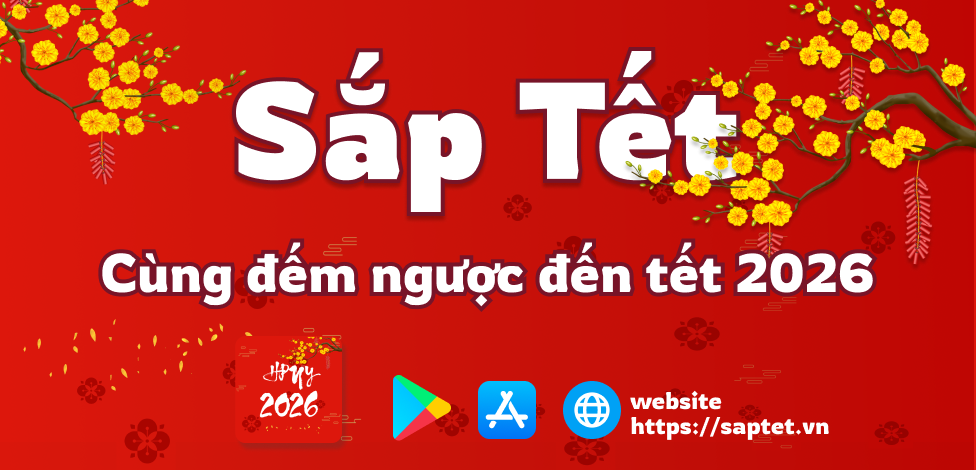
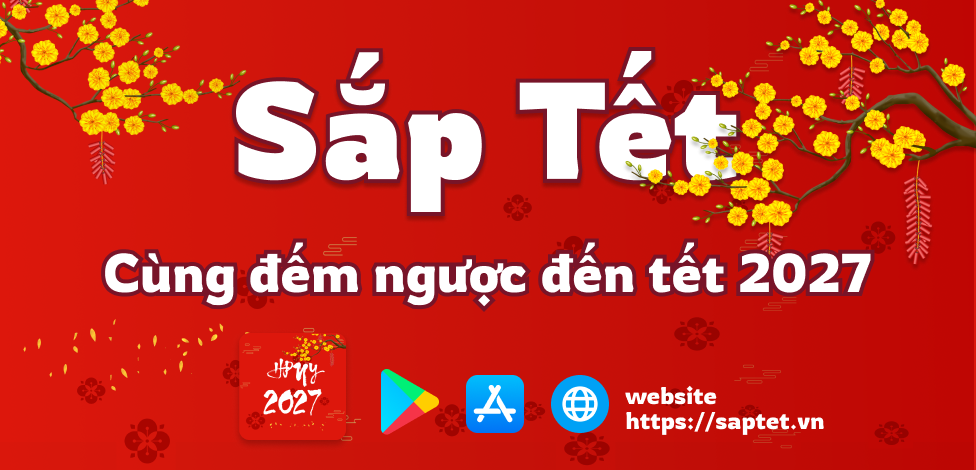
chore: update before deployment

Changed region(s): [[0.2152, 0.7149, 0.8607, 0.9532], [0.0922, 0.5064, 0.9221, 0.6553]]

diff --git a/lich-nghi-tet-2026.html b/lich-nghi-tet-2026.html
@@ -3,27 +3,27 @@
 <head>
     <meta charset="UTF-8">
     <meta name="viewport" content="width=device-width, initial-scale=1.0">
-    <title>Lịch Nghỉ Tết 2027: 9 Ngày Nghỉ Từ 14/2 - 11/2/2027 | Sắp Tết</title>
-    <meta name="description" content="📅 Lịch nghỉ Tết 2027 chính thức: Người lao động được nghỉ 9 ngày từ 3/2/2027 (27/12 âm lịch) đến 11/2/2027 (mùng 6 Tết). Xem chi tiết lịch nghỉ Tết Nguyên đán 2027, ngày nghỉ lễ, và hướng dẫn chuẩn bị Tết.">
+    <title>Lịch Nghỉ Tết 2027: Đang Chờ Thông Báo Chính Thức | Sắp Tết</title>
+    <meta name="description" content="📅 Lịch nghỉ Tết 2027 hiện chưa có thông báo chính thức. Theo dõi trang để cập nhật ngay khi cơ quan có thẩm quyền công bố lịch nghỉ Tết Nguyên đán 2027.">
     <meta name="keywords" content="lịch nghỉ tết 2027, nghỉ tết 2027, lịch nghỉ tết nguyên đán 2027, tết 2027 nghỉ mấy ngày, lịch nghỉ lễ 2027, tết đinh mùi 2027, nghỉ tết dương lịch 2027, lịch tết 2027, ngày nghỉ tết 2027, tết 2027 bao nhiêu ngày nghỉ">
     
     <!-- Open Graph / Facebook -->
     <meta property="og:type" content="article">
     <meta property="og:url" content="https://saptet.vn/lich-nghi-tet-2026.html">
-    <meta property="og:title" content="Lịch Nghỉ Tết 2027: 9 Ngày Nghỉ Từ 14/2 - 11/2/2027 | Sắp Tết">
-    <meta property="og:description" content="📅 Lịch nghỉ Tết 2027 chính thức: Người lao động được nghỉ 9 ngày từ 3/2/2027 đến 11/2/2027. Xem chi tiết lịch nghỉ Tết Nguyên đán 2027.">
+    <meta property="og:title" content="Lịch Nghỉ Tết 2027: Đang Chờ Thông Báo Chính Thức | Sắp Tết">
+    <meta property="og:description" content="📅 Lịch nghỉ Tết 2027 hiện chưa có thông báo chính thức. Trang sẽ cập nhật ngay khi có công bố mới nhất từ cơ quan có thẩm quyền.">
     <meta property="og:image" content="https://saptet.vn/assets/images/img_sharing.png">
     <meta property="og:image:width" content="1200">
     <meta property="og:image:height" content="630">
-    <meta property="og:image:alt" content="Lịch Nghỉ Tết 2027 - 9 Ngày Nghỉ Từ 14/2 - 11/2/2027">
+    <meta property="og:image:alt" content="Lịch Nghỉ Tết 2027 - Đang Chờ Thông Báo Chính Thức">
     <meta property="og:site_name" content="Sắp Tết - Đếm Ngược Tết">
     <meta property="og:locale" content="vi_VN">
     
     <!-- Twitter -->
     <meta property="twitter:card" content="summary_large_image">
     <meta property="twitter:url" content="https://saptet.vn/lich-nghi-tet-2026.html">
-    <meta property="twitter:title" content="Lịch Nghỉ Tết 2027: 9 Ngày Nghỉ Từ 14/2 - 11/2/2027">
-    <meta property="twitter:description" content="📅 Lịch nghỉ Tết 2027 chính thức: Người lao động được nghỉ 9 ngày từ 3/2/2027 đến 11/2/2027.">
+    <meta property="twitter:title" content="Lịch Nghỉ Tết 2027: Đang Chờ Thông Báo Chính Thức">
+    <meta property="twitter:description" content="📅 Lịch nghỉ Tết 2027 hiện chưa có thông báo chính thức. Theo dõi để cập nhật lịch nghỉ mới nhất.">
     <meta property="twitter:image" content="https://saptet.vn/assets/images/img_sharing.png">
     
     <!-- Canonical URL -->
@@ -47,8 +47,8 @@
     {
         "@context": "https://schema.org",
         "@type": "Article",
-        "headline": "Lịch Nghỉ Tết 2027: 9 Ngày Nghỉ Từ 14/2 - 11/2/2027",
-        "description": "Lịch nghỉ Tết 2027 chính thức: Người lao động được nghỉ 9 ngày từ 3/2/2027 (27/12 âm lịch) đến 11/2/2027 (mùng 6 Tết).",
+        "headline": "Lịch Nghỉ Tết 2027: Đang Chờ Thông Báo Chính Thức",
+        "description": "Lịch nghỉ Tết 2027 hiện chưa có thông báo chính thức. Nội dung sẽ được cập nhật ngay khi có thông tin từ cơ quan có thẩm quyền.",
         "image": "https://saptet.vn/assets/images/img_sharing.png",
         "author": {
             "@type": "Organization",
@@ -433,7 +433,7 @@
         <section class="article-hero">
             <div class="container">
                 <h1>📅 Lịch Nghỉ Tết 2027</h1>
-                <p class="subtitle">9 ngày nghỉ Tết Nguyên đán từ 14/2 - 11/2/2027</p>
+                <p class="subtitle">Hiện chưa có lịch nghỉ Tết Nguyên đán 2027 chính thức</p>
             </div>
         </section>
 
@@ -448,19 +448,19 @@
                     </div>
                     
                     <div class="calendar-box">
-                        <h3>🗓 Lịch Nghỉ Tết 2027 Chính Thức</h3>
-                        <div class="date-range">03/02/2027 - 11/02/2027</div>
-                        <div class="lunar-date">Từ 27/12 âm lịch đến mùng 6 Tết</div>
-                        <p><strong>Thời gian nghỉ:</strong> 9 ngày liên tiếp</p>
-                        <p><strong>Bắt đầu:</strong> Thứ Bảy, 03/02/2027</p>
-                        <p><strong>Kết thúc:</strong> Chủ nhật, 11/02/2027</p>
+                        <h3>🗓 Trạng Thái Lịch Nghỉ Tết 2027</h3>
+                        <div class="date-range">Chưa có thông báo chính thức</div>
+                        <div class="lunar-date">Sẽ cập nhật ngay khi có văn bản công bố</div>
+                        <p><strong>Thời gian nghỉ:</strong> Đang chờ xác nhận</p>
+                        <p><strong>Nguồn cập nhật:</strong> Cơ quan có thẩm quyền của Nhà nước</p>
+                        <p><strong>Lưu ý:</strong> Không nên sử dụng các mốc ngày chưa được công bố để lên kế hoạch cố định</p>
                     </div>
                     
                     <div class="table-of-contents">
                         <h3>📋 Mục lục bài viết</h3>
                         <ul>
-                            <li><a href="#thong-tin-chinh-thuc">1. Thông tin chính thức về lịch nghỉ Tết 2027</a></li>
-                            <li><a href="#chi-tiet-lich-nghi">2. Chi tiết lịch nghỉ từng ngày</a></li>
+                            <li><a href="#thong-tin-chinh-thuc">1. Trạng thái cập nhật lịch nghỉ Tết 2027</a></li>
+                            <li><a href="#chi-tiet-lich-nghi">2. Cách theo dõi thông tin mới nhất</a></li>
                             <li><a href="#quy-dinh-nghi-tet">3. Quy định nghỉ Tết cho người lao động</a></li>
                             <li><a href="#huong-dan-chuan-bi">4. Hướng dẫn chuẩn bị cho kỳ nghỉ Tết</a></li>
                             <li><a href="#cac-ngay-le-khac">5. Các ngày lễ khác trong năm 2027</a></li>
@@ -468,89 +468,39 @@
                     </div>
                     
                     <div class="article-content">
-                        <h2 id="thong-tin-chinh-thuc">1. Thông tin chính thức về lịch nghỉ Tết 2027</h2>
+                        <h2 id="thong-tin-chinh-thuc">1. Trạng thái cập nhật lịch nghỉ Tết 2027</h2>
                         
-                        <p>Theo quyết định của Chính phủ, <strong>lịch nghỉ Tết 2027</strong> sẽ kéo dài <strong>9 ngày liên tiếp</strong> từ ngày <strong>03/02/2027</strong> (thứ Bảy) đến hết ngày <strong>11/02/2027</strong> (Chủ nhật). Đây là kỳ nghỉ Tết Nguyên đán dài nhất trong những năm gần đây, tạo điều kiện thuận lợi cho người lao động có thời gian nghỉ ngơi và sum họp gia đình.</p>
+                        <p>Hiện tại, <strong>lịch nghỉ Tết 2027</strong> vẫn <strong>chưa có thông báo chính thức</strong>. Các mốc ngày nghỉ cụ thể cần chờ văn bản công bố từ cơ quan có thẩm quyền. Trang này sẽ cập nhật ngay khi có thông tin xác thực để bạn tiện theo dõi.</p>
                         
                         <div class="highlight-box">
-                            <h4>🎯 Điểm nổi bật của lịch nghỉ Tết 2027:</h4>
+                            <h4>🎯 Thông tin cần lưu ý ở thời điểm hiện tại:</h4>
                             <ul>
-                                <li><strong>Thời gian nghỉ:</strong> 9 ngày liên tiếp (từ 14/2 - 11/2/2027)</li>
-                                <li><strong>Năm âm lịch:</strong> Năm Đinh Mùi (năm con Dê)</li>
-                                <li><strong>Ngày Tết chính:</strong> 06/02/2027 (mùng 1 Tết)</li>
-                                <li><strong>Áp dụng cho:</strong> Tất cả cán bộ, công chức, viên chức và người lao động</li>
+                                <li><strong>Trạng thái:</strong> Chưa có lịch nghỉ chính thức cho Tết 2027</li>
+                                <li><strong>Khuyến nghị:</strong> Ưu tiên theo dõi nguồn thông tin chính thống</li>
+                                <li><strong>Cập nhật:</strong> Nội dung sẽ được chỉnh sửa ngay khi có thông báo mới</li>
+                                <li><strong>Lưu ý:</strong> Không nên dựa vào các bài đăng suy đoán ngày nghỉ</li>
                             </ul>
                         </div>
                         
-                        <p>Kỳ nghỉ Tết 2027 được thiết kế để tạo điều kiện tối ưu cho người dân Việt Nam có thể tận hưởng trọn vẹn không khí Tết cổ truyền, thực hiện các phong tục truyền thống và dành thời gian cho gia đình.</p>
+                        <p>Trong thời gian chờ công bố chính thức, bạn vẫn có thể chuẩn bị kế hoạch công việc, đi lại và tài chính theo phương án linh hoạt để chủ động hơn khi lịch nghỉ được ban hành.</p>
                         
-                        <h2 id="chi-tiet-lich-nghi">2. Chi tiết lịch nghỉ từng ngày</h2>
+                        <h2 id="chi-tiet-lich-nghi">2. Cách theo dõi thông tin mới nhất</h2>
                         
-                        <p>Dưới đây là bảng chi tiết <strong>lịch nghỉ Tết 2027</strong> từng ngày:</p>
+                        <p>Hiện chưa thể công bố bảng chi tiết theo từng ngày cho <strong>lịch nghỉ Tết 2027</strong>. Để tránh nhầm lẫn, bạn có thể theo dõi theo các cách sau:</p>
                         
                         <div class="holiday-schedule">
-                            <h4>📅 Lịch nghỉ Tết 2027 chi tiết</h4>
-                            <div class="schedule-grid">
-                                <div class="schedule-item">
-                                    <div class="schedule-date">14/02</div>
-                                    <div class="schedule-day">T7</div>
-                                    <div class="schedule-lunar">27/12</div>
-                                    <div class="schedule-note">Bắt đầu nghỉ Tết</div>
-                                </div>
-                                <div class="schedule-item">
-                                    <div class="schedule-date">15/02</div>
-                                    <div class="schedule-day">CN</div>
-                                    <div class="schedule-lunar">28/12</div>
-                                    <div class="schedule-note">Tất niên</div>
-                                </div>
-                                <div class="schedule-item">
-                                    <div class="schedule-date">16/02</div>
-                                    <div class="schedule-day">T2</div>
-                                    <div class="schedule-lunar">29/12</div>
-                                    <div class="schedule-note">Giao thừa</div>
-                                </div>
-                                <div class="schedule-item tet-main">
-                                    <div class="schedule-date">17/02</div>
-                                    <div class="schedule-day">T3</div>
-                                    <div class="schedule-lunar">Mùng 1</div>
-                                    <div class="schedule-note">🎊 Tết chính</div>
-                                </div>
-                                <div class="schedule-item">
-                                    <div class="schedule-date">18/02</div>
-                                    <div class="schedule-day">T4</div>
-                                    <div class="schedule-lunar">Mùng 2</div>
-                                    <div class="schedule-note">Thăm họ hàng</div>
-                                </div>
-                                <div class="schedule-item">
-                                    <div class="schedule-date">19/02</div>
-                                    <div class="schedule-day">T5</div>
-                                    <div class="schedule-lunar">Mùng 3</div>
-                                    <div class="schedule-note">Thăm thầy cô</div>
-                                </div>
-                                <div class="schedule-item">
-                                    <div class="schedule-date">20/02</div>
-                                    <div class="schedule-day">T6</div>
-                                    <div class="schedule-lunar">Mùng 4</div>
-                                    <div class="schedule-note">Du xuân</div>
-                                </div>
-                                <div class="schedule-item">
-                                    <div class="schedule-date">21/02</div>
-                                    <div class="schedule-day">T7</div>
-                                    <div class="schedule-lunar">Mùng 5</div>
-                                    <div class="schedule-note">Nghỉ ngơi</div>
-                                </div>
-                                <div class="schedule-item">
-                                    <div class="schedule-date">22/02</div>
-                                    <div class="schedule-day">CN</div>
-                                    <div class="schedule-lunar">Mùng 6</div>
-                                    <div class="schedule-note">Kết thúc nghỉ Tết</div>
-                                </div>
-                            </div>
+                            <h4>📅 Nguồn theo dõi lịch nghỉ Tết 2027</h4>
+                            <ul>
+                                <li>Thông báo từ cơ quan Nhà nước có thẩm quyền</li>
+                                <li>Thông tin nội bộ từ cơ quan, đơn vị hoặc doanh nghiệp nơi bạn làm việc</li>
+                                <li>Các kênh báo chí chính thống cập nhật văn bản mới</li>
+                                <li>Trang này sẽ cập nhật ngay sau khi có thông tin xác thực</li>
+                            </ul>
                         </div>
                         
                         <h2 id="quy-dinh-nghi-tet">3. Quy định nghỉ Tết cho người lao động</h2>
                         
-                        <p>Theo Bộ luật Lao động Việt Nam, <strong>lịch nghỉ Tết 2027</strong> được áp dụng cho tất cả các đối tượng sau:</p>
+                        <p>Theo Bộ luật Lao động Việt Nam, khi có thông báo chính thức, <strong>lịch nghỉ Tết 2027</strong> sẽ được áp dụng theo quy định cho các nhóm đối tượng sau:</p>
                         
                         <ul>
                             <li><strong>Cán bộ, công chức, viên chức:</strong> Nghỉ theo quy định của Nhà nước</li>
@@ -560,7 +510,7 @@
                         </ul>
                         
                         <div class="quote-box">
-                            "Tết là dịp để mọi người nghỉ ngơi, sum họp gia đình và tận hưởng không khí ấm áp của ngày lễ cổ truyền. Việc có 9 ngày nghỉ liên tiếp sẽ giúp người lao động có thời gian chuẩn bị và đón Tết một cách trọn vẹn nhất."
+                            "Tết là dịp để mọi người nghỉ ngơi và sum họp gia đình. Việc theo dõi đúng thông tin chính thức sẽ giúp mỗi người chủ động kế hoạch phù hợp và tránh nhầm lẫn."
                         </div>
                         
                         <h3>Quyền lợi của người lao động trong kỳ nghỉ Tết:</h3>
@@ -573,7 +523,7 @@
                         
                         <h2 id="huong-dan-chuan-bi">4. Hướng dẫn chuẩn bị cho kỳ nghỉ Tết</h2>
                         
-                        <p>Với <strong>9 ngày nghỉ Tết 2027</strong>, bạn có thể lên kế hoạch chuẩn bị một cách kỹ lưỡng. Dưới đây là một số gợi ý để tận dụng tối đa kỳ nghỉ này:</p>
+                        <p>Dù <strong>số ngày nghỉ Tết 2027</strong> chưa được công bố, bạn vẫn có thể chuẩn bị sớm theo hướng linh hoạt. Dưới đây là một số gợi ý hữu ích:</p>
                         
                         <div class="tips-grid">
                             <div class="tip-card">
@@ -619,26 +569,26 @@
                         
                         <h2 id="cac-ngay-le-khac">5. Các ngày lễ khác trong năm 2027</h2>
                         
-                        <p>Ngoài <strong>lịch nghỉ Tết 2027</strong>, trong năm 2027 còn có các ngày lễ khác mà người lao động được nghỉ:</p>
+                        <p>Ngoài <strong>lịch nghỉ Tết 2027</strong>, người lao động còn có các ngày nghỉ lễ theo quy định pháp luật hiện hành:</p>
                         
                         <div class="highlight-box">
                             <h4>📅 Lịch nghỉ lễ năm 2027:</h4>
                             <ul>
-                                <li><strong>Giỗ Tổ Hùng Vương:</strong> 25/03/2027 (Thứ Hai) - Nghỉ 1 ngày</li>
-                                <li><strong>Giải phóng miền Nam:</strong> 30/04/2027 (Thứ Năm) - Nghỉ 1 ngày</li>
-                                <li><strong>Quốc tế Lao động:</strong> 01/05/2027 (Thứ Sáu) - Nghỉ 1 ngày</li>
-                                <li><strong>Quốc khánh:</strong> 02/09/2027 (Thứ Tư) - Nghỉ 1 ngày</li>
+                                <li><strong>Giỗ Tổ Hùng Vương:</strong> Nghỉ theo quy định hằng năm</li>
+                                <li><strong>Ngày Giải phóng miền Nam 30/4:</strong> Nghỉ 1 ngày</li>
+                                <li><strong>Ngày Quốc tế Lao động 1/5:</strong> Nghỉ 1 ngày</li>
+                                <li><strong>Ngày Quốc khánh 2/9:</strong> Nghỉ theo phương án công bố từng năm</li>
                             </ul>
                         </div>
                         
-                        <p>Với <strong>lịch nghỉ Tết 2027</strong> kéo dài 9 ngày và các ngày lễ khác trong năm, người lao động sẽ có nhiều cơ hội để nghỉ ngơi, thư giãn và dành thời gian cho gia đình.</p>
+                        <p>Khi lịch nghỉ Tết được công bố, người lao động có thể kết hợp cùng các ngày lễ khác để chủ động sắp xếp công việc, nghỉ ngơi và thời gian cho gia đình.</p>
                         
                         <div class="quote-box">
-                            "Tết Nguyên đán là dịp lễ quan trọng nhất trong năm của người Việt Nam. Việc có 9 ngày nghỉ liên tiếp sẽ giúp mọi người có thời gian chuẩn bị và đón Tết một cách trọn vẹn, góp phần bảo tồn và phát huy những giá trị văn hóa truyền thống tốt đẹp của dân tộc."
+                            "Tết Nguyên đán là dịp lễ quan trọng nhất trong năm của người Việt Nam. Việc cập nhật đúng thông tin chính thức sẽ giúp mọi người chuẩn bị tốt hơn cho kỳ nghỉ."
                         </div>
                         
                         <h3>Kết luận</h3>
-                        <p><strong>Lịch nghỉ Tết 2027</strong> với 9 ngày nghỉ liên tiếp từ 03/02/2027 đến 11/02/2027 là một cơ hội tuyệt vời để người lao động Việt Nam có thể tận hưởng trọn vẹn không khí Tết cổ truyền. Hãy lên kế hoạch chuẩn bị từ sớm để có một kỳ nghỉ Tết ý nghĩa và đáng nhớ!</p>
+                        <p><strong>Lịch nghỉ Tết 2027</strong> hiện đang chờ thông báo chính thức. Hãy theo dõi các nguồn tin xác thực và chuẩn bị kế hoạch linh hoạt để sẵn sàng cho kỳ nghỉ Tết khi lịch được công bố.</p>
                     </div>
                 </article>
                 

diff --git a/chi-tiet-su-kien.html b/chi-tiet-su-kien.html
@@ -251,13 +251,40 @@
         secondsEl.textContent = pad2(seconds);
     }
 
+    function getUpcomingLunarTetDate() {
+        if (typeof lunarToSolar !== 'function') return null;
+        var now = new Date();
+        var thisYearTet = lunarToSolar(now.getFullYear(), 1, 1);
+        if (!thisYearTet) return null;
+
+        var tetStart = new Date(thisYearTet.getFullYear(), thisYearTet.getMonth(), thisYearTet.getDate());
+        tetStart.setHours(0, 0, 0, 0);
+        if (tetStart.getTime() >= now.getTime()) {
+            return tetStart;
+        }
+
+        var nextYearTet = lunarToSolar(now.getFullYear() + 1, 1, 1);
+        if (!nextYearTet) return tetStart;
+        return new Date(nextYearTet.getFullYear(), nextYearTet.getMonth(), nextYearTet.getDate());
+    }
+
     function render() {
         var dateParam = getParam('date');
+        var hasDateParam = !!dateParam;
         var targetDate = parseDateParam(dateParam);
+        var isTetFallback = false;
         var titleEl = document.getElementById('eventTitle');
         var dateDisplayEl = document.getElementById('eventDateDisplay');
         var cardsEl = document.getElementById('eventCards');
         var emptyEl = document.getElementById('eventEmpty');
+
+        if (!hasDateParam) {
+            var fallbackDate = getUpcomingLunarTetDate();
+            if (fallbackDate) {
+                targetDate = fallbackDate;
+                isTetFallback = true;
+            }
+        }
 
         if (!targetDate) {
             if (titleEl) titleEl.textContent = 'Không có ngày hợp lệ';
@@ -267,7 +294,7 @@
             return;
         }
 
-        if (titleEl) titleEl.textContent = 'Chi tiết sự kiện';
+        if (titleEl) titleEl.textContent = isTetFallback ? 'Đếm ngược Tết Nguyên Đán' : 'Chi tiết sự kiện';
         if (dateDisplayEl) dateDisplayEl.textContent = formatDateLong(targetDate) + ' (' + formatDate(targetDate) + ')';
 
         var events = getEventsOnDate(targetDate.getFullYear(), targetDate.getMonth(), targetDate.getDate());
